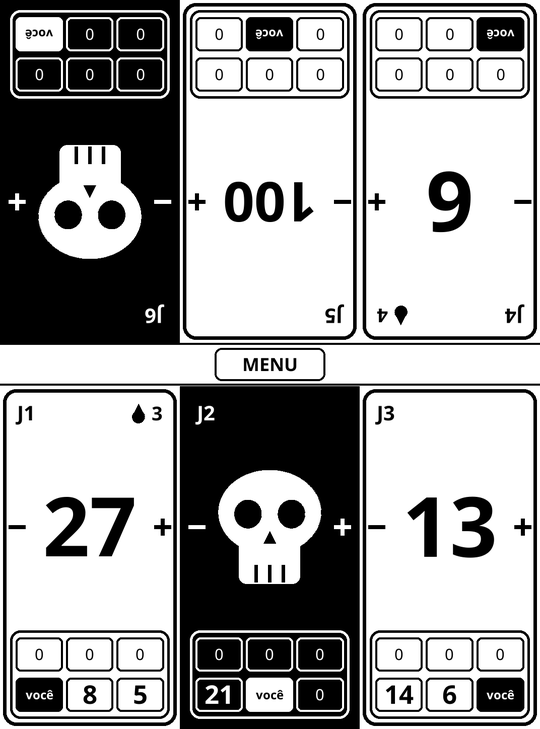
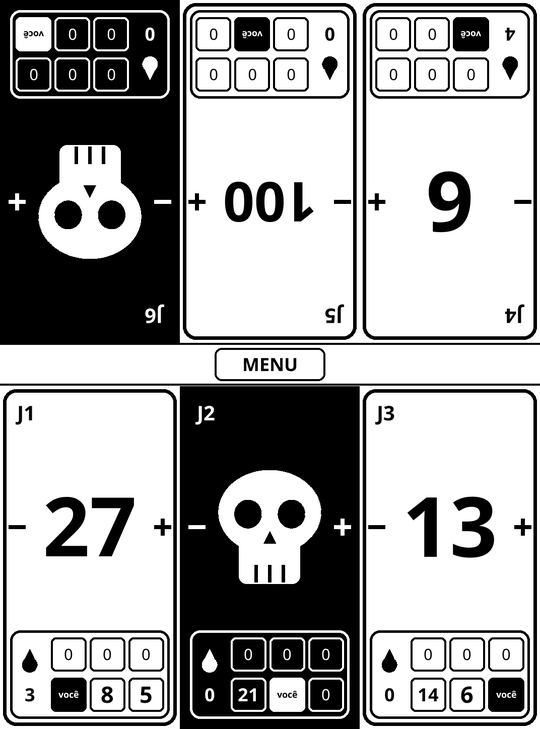
docs: describe the single field, the always-visible poison drop and reviving
acceptance.md and the README "Recursos" section describe the new flow; dev-loop.md documents the
new LIFECOUNTER_DEMO_COMMANDER syntax (owner:opponent|v[:taps]); README screenshots refreshed from
the emulator and a capture of the damage field added.

diff --git a/docs/acceptance.md b/docs/acceptance.md
@@ -9,14 +9,17 @@ Marque cada item depois de testar no aparelho.
 - [ ] Nova partida com 2 jogadores, 40 de vida: os dois painéis aparecem, um de cabeça para baixo.
 - [ ] Nova partida com 4 e com 6 jogadores: todos os painéis legíveis; numeração J1..Jn no sentido horário a partir do canto inferior esquerdo.
 - [ ] Toque na metade esquerda do painel tira 1 e na direita soma 1; segurar muda 10; vale também no painel de cabeça para baixo (as metades seguem quem está sentado ali).
-- [ ] Veneno aparece no canto (gota + número) só quando não é zero.
+- [ ] A gota de veneno com o número aparece embaixo, à esquerda da miniatura, sempre (mesmo com 0); não há mais veneno no canto.
 - [ ] Vida em 0 ou menos, veneno 10 ou 21 de um mesmo comandante: painel preto com caveira, sem texto de motivo, e os controles continuam funcionando.
-- [ ] A miniatura da mesa embaixo do painel mostra o dano recebido de cada oponente no lugar dele; tocar nela abre a tela de dano sem mudar nada.
-- [ ] Tela de dano: metade esquerda/direita do quadrado de um oponente tira/soma 1 (segurar 10); somar dano tira a mesma vida do jogador; o quadrado "VOCÊ" não reage.
-- [ ] Tela de dano aberta pelo painel de cima: a faixa do meio (Voltar e veneno) aparece virada para quem está lá.
-- [ ] Veneno − e + na faixa do meio mudam 1.
-- [ ] Toque duplo rápido na miniatura não altera o dano nem a vida.
-- [ ] "Voltar" fecha a tela de dano e o jogo mostra os números novos.
+- [ ] A miniatura da mesa embaixo do painel mostra o dano recebido de cada oponente no lugar dele.
+- [ ] Tocar no quadradinho de um oponente abre o campo único em tela cheia, só com aquele número (ex.: J1 toca no canto superior esquerdo com 4 jogadores → "J1 · dano de comandante de J4"), sem mudar nada no jogo. Com 6 jogadores, tocar perto da borda de um quadradinho ainda pega o quadradinho certo.
+- [ ] Tocar no quadradinho "você" não faz nada.
+- [ ] Campo de dano: metade esquerda tira 1 e direita soma 1; segurar muda 10; somar dano tira a mesma vida e tirar dano devolve a vida. Mostra "de 21".
+- [ ] Campo aberto por um jogador de cima: a tela inteira aparece virada para ele (OK no alto da tela).
+- [ ] Tocar na gota abre o campo de veneno ("J1 · veneno", "fora com 10"): toque muda 1; segurar não muda nada.
+- [ ] Reviver: com 21 de um comandante o jogador fica fora; tirar 1 no campo tira a caveira e devolve 1 de vida; voltar a 0 devolve a vida toda. Veneno 10 → 9 também tira a caveira.
+- [ ] Toque duplo rápido na miniatura ou na gota não altera o número do campo.
+- [ ] "OK · voltar ao jogo" fecha o campo e o jogo mostra os números novos.
 - [ ] "MENU" na barra central abre o menu.
 
 ## Continuidade

diff --git a/README.md b/README.md
@@ -9,6 +9,7 @@ painel virado para o seu lado. Inspirado no LifeTap.
 <p align="center">
   <img src="docs/img/seis-jogadores.png" width="270" alt="Partida com 6 jogadores">
   <img src="docs/img/dois-jogadores.png" width="270" alt="Partida com 2 jogadores, um fora por dano de comandante">
+  <img src="docs/img/campo-dano.png" width="270" alt="Campo de dano de comandante de J4 em J1">
 </p>
 
 > Capturas do emulador do KOReader no tamanho da tela do Kindle (1072 × 1448).
@@ -17,8 +18,14 @@ painel virado para o seu lado. Inspirado no LifeTap.
 
 - **2 a 6 jogadores**, com os painéis girados para cada lado da mesa.
 - **Toque** soma ou subtrai 1; **segurar** soma ou subtrai 10.
-- **Veneno** por jogador.
-- **Dano de comandante** separado por oponente.
+- **Veneno** por jogador: a gota com o número fica sempre à vista embaixo do painel; tocar nela
+  abre o campo de veneno (só toque, ±1).
+- **Dano de comandante** separado por oponente: embaixo de cada painel, uma miniatura da mesa mostra
+  o dano recebido de cada oponente no lugar dele. Tocar no quadradinho de um oponente abre um campo
+  em tela cheia, virado para o dono do painel, só com aquele número (toque ±1, segurar ±10).
+  O dano tira a mesma vida, e devolver dano devolve a vida.
+- **Jogador fora** (vida 0, veneno 10 ou 21 de um mesmo comandante) vira painel preto com caveira,
+  e volta ao jogo sozinho se o número for corrigido.
 - **Partida salva a cada toque**: fechar o KOReader ou acabar a bateria não perde o jogo
   ("Continuar partida" no menu).
 - **Atualização pelo ar** com o botão "Atualizar" do menu:

diff --git a/docs/dev-loop.md b/docs/dev-loop.md
@@ -35,9 +35,11 @@ xwd -root -display :5 -silent > tela.xwd   # ou tools/screenshot.py trocando -id
 - Ganchos de demonstração (só desenvolvimento, em `app.lua`):
   - `LIFECOUNTER_DEMO=<n>` abre direto uma partida de n jogadores com dano de comandante de 2 oponentes
     em J1, veneno, J2 fora por 21 de comandante e J6 fora por vida.
-  - `LIFECOUNTER_DEMO_COMMANDER=<alvo>` (junto com o anterior) abre a tela de dano do alvo e simula
-    toques: 2× + no 1º oponente, segurar + no 2º e veneno +. A faixa do meio gira sozinha se o alvo
-    está na fileira de cima.
+  - `LIFECOUNTER_DEMO_COMMANDER=<dono>:<oponente>[:<toques>]` (junto com o anterior) toca, como um
+    jogador, no quadradinho do oponente na miniatura do painel do dono e depois simula toques no campo
+    único: `+`/`-` tocar, `H`/`h` segurar em +/−, `o` OK (padrão `++H`). Com `v` no lugar do oponente
+    (`1:v`) abre o campo de veneno. O campo gira sozinho se o dono está na fileira de cima.
+    Ex.: `4` + `2:1:-o` revive J2 (21 → 20 de J1) e volta ao jogo.
   - `LIFECOUNTER_SIM_TAPS="x:y:segundos,..."` simula toques na tela.
 - Os logs do emulador saem no terminal que o iniciou. Para recarregar o código depois de editar, feche e abra o emulador.
 
